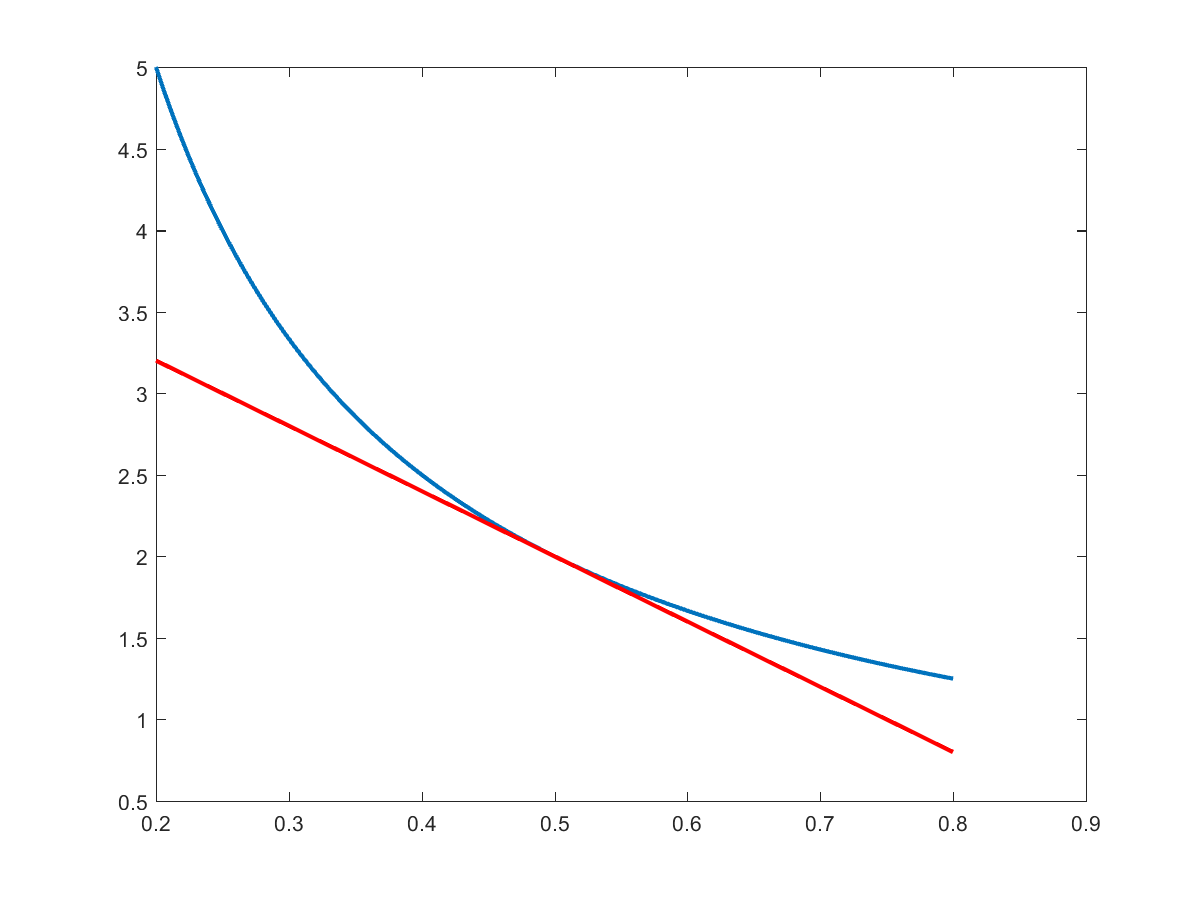
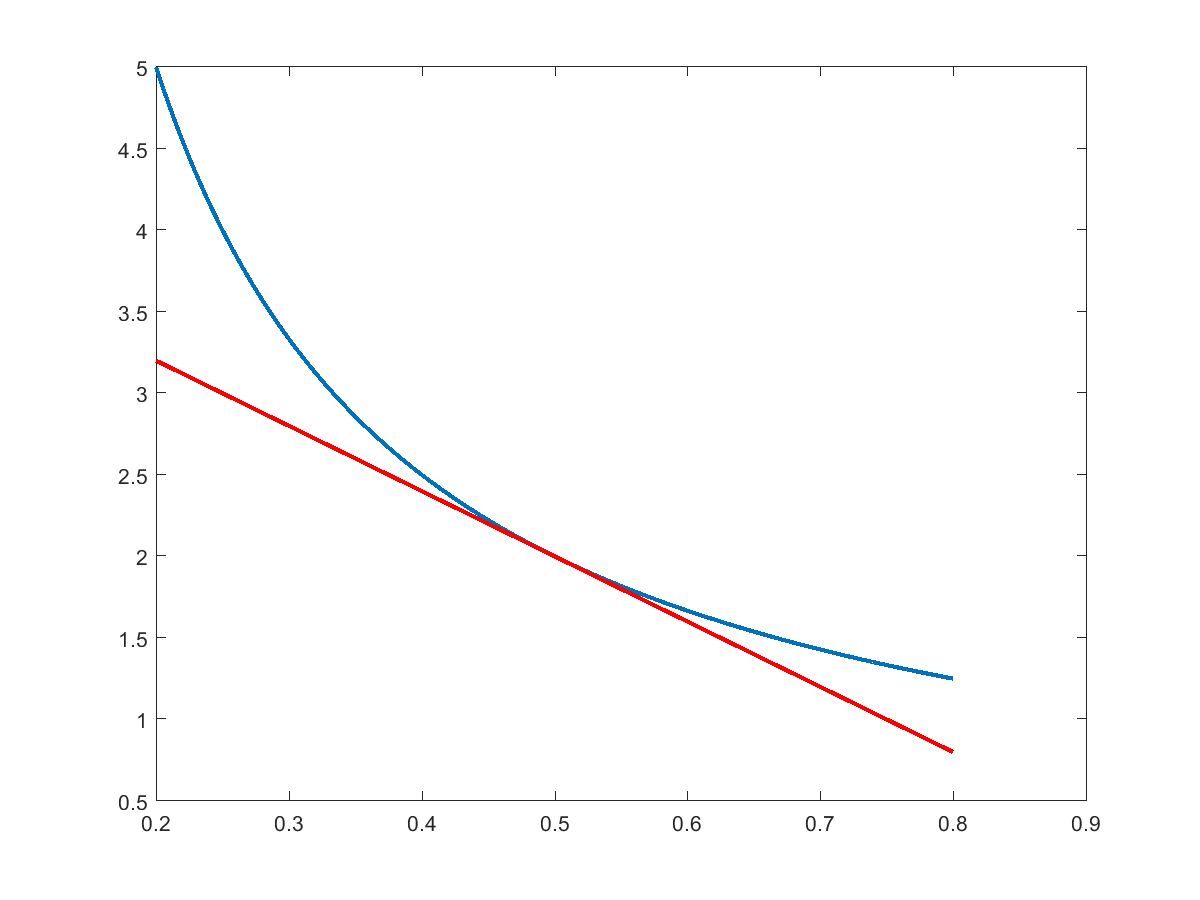
Automatic update from (DESKTOP-DK9BGGI)

Changed region(s): [[0.5858, 0.6844, 0.6167, 0.7156], [0.5242, 0.6533, 0.555, 0.6844], [0.3392, 0.5289, 0.37, 0.56]]

diff --git a/MNTC/MATLAB_02_GraphingMultipleGraphs/q_001.m b/MNTC/MATLAB_02_GraphingMultipleGraphs/q_001.m
@@ -1,5 +1,5 @@
 % q_001
-
+close all
 xpoints = [-1.5, -0.5, 0.5, 1.5];
 for (i = 1:length(xpoints))
     clf
@@ -16,13 +16,32 @@ for (i = 1:length(xpoints))
     print('-dpng', sprintf('q_001_%d_%d.png', fun, i));
     
     fun = 2;
+    clf
     y = 1./x.^2;
     plot(x, y, 'linewidth', 2);
     hold on;
-    y2 = -2/xpoint^3*(x - xpoint) + 1/xpoint;
+    y2 = -2/xpoint^3*(x - xpoint) + 1/xpoint.^2;
+    plot(x, y2, 'r', 'linewidth', 2);
+    print('-dpng', sprintf('q_001_%d_%d.png', fun, i));
+    
+    fun = 3;
+    clf
+    y = -1./x;
+    plot(x, y, 'linewidth', 2);
+    hold on;
+    y2 = +1/xpoint^2*(x - xpoint) - 1/xpoint;
+    plot(x, y2, 'r', 'linewidth', 2);
+    print('-dpng', sprintf('q_001_%d_%d.png', fun, i));
+    
+    fun = 4;
+    clf
+    y = -1./x.^2;
+    plot(x, y, 'linewidth', 2);
+    hold on;
+    y2 = 2/xpoint^3*(x - xpoint) - 1/xpoint.^2;
     plot(x, y2, 'r', 'linewidth', 2);
     print('-dpng', sprintf('q_001_%d_%d.png', fun, i));
     
     
-    pause(2);
+    %     pause(2);
 end
